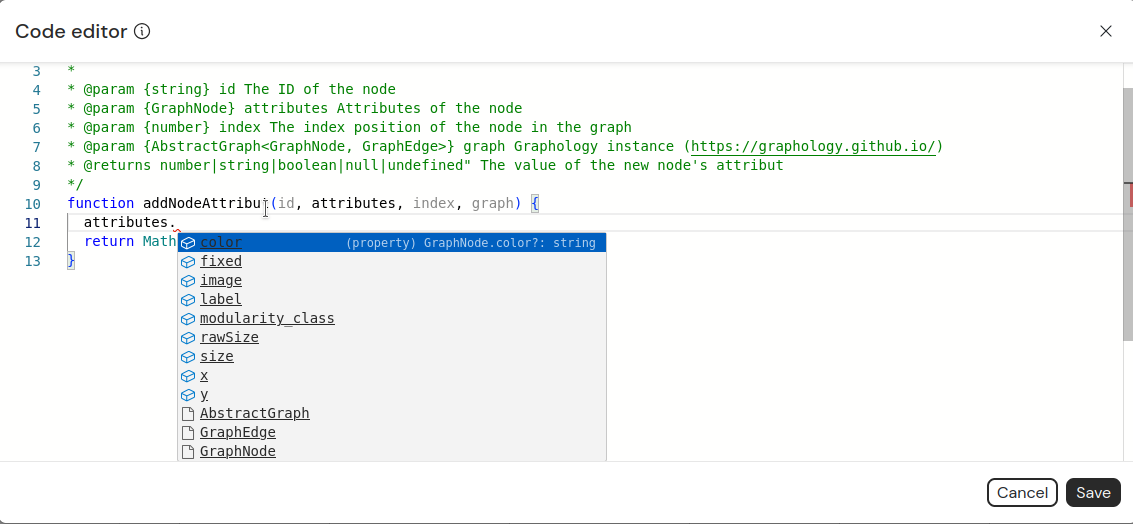
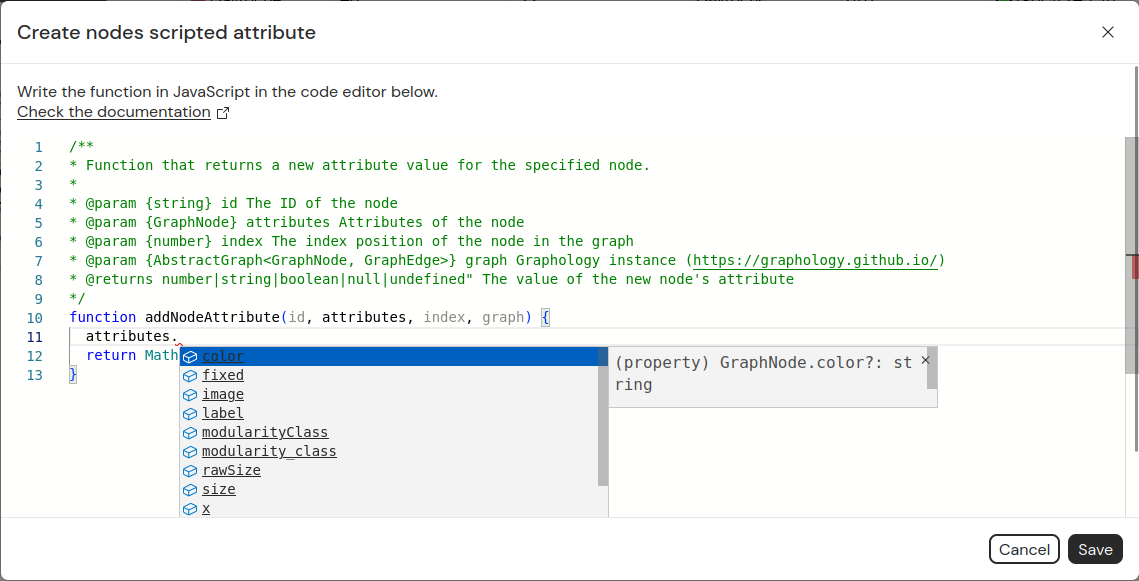
[gephi-lite] fix wording on custom-scripts page

diff --git a/gephi-lite/docs/user-manual/custom-scripts.md b/gephi-lite/docs/user-manual/custom-scripts.md
@@ -39,7 +39,7 @@ function filter(id, attributes, graph) {
 }
 ```
 
-- Filtering node that have a property 'age' below 18 and with a degree inferior to 10 :
+- Keep nodes that have a property 'age' below 18 and with a degree inferior to 10 :
 
 ```js
 function filter(id, attributes, graph) {
@@ -47,7 +47,7 @@ function filter(id, attributes, graph) {
 }
 ```
 
-- Filtering nodes on which the property 'job' is not defined
+- Keep nodes on which the property 'job' is defined
 
 ```js
 function filter(id, attributes, graph) {
@@ -110,9 +110,9 @@ On the **Data** page, choosing **Create nodes scripted attribute** in the **Data
  * @param {GraphNode} attributes Attributes of the node/edge
  * @param {number} index The index position of the node/edge in the graph
  * @param {AbstractGraph<GraphNode, GraphEdge>} graph Graphology instance (https://graphology.github.io/)
- * @returns number|string|boolean|null|undefined" The value of the new node/edge's attribut
+ * @returns number|string|boolean|null|undefined" The value of the new node/edge's attribute
  */
-function addAttribut(id, attributes, index, graph) {
+function addAttribute(id, attributes, index, graph) {
   //
   // Your code goes here
   //
@@ -122,10 +122,10 @@ function addAttribut(id, attributes, index, graph) {
 
 ### Examples
 
-- If you have an attribut named 'valid' which take 0 or 1 and you want to cast it into a boolean
+- If you have an attribute named 'valid' which take 0 or 1 and you want to cast it into a boolean
 
 ```js
-function addAttribut(id, attributes, index, graph) {
+function addAttribute(id, attributes, index, graph) {
   return attributes.valid === 1;
 }
 ```
@@ -133,7 +133,7 @@ function addAttribut(id, attributes, index, graph) {
 - If you have attributs named 'firstname' and 'lastname' and you want to concatenate them (usefull for graph label)
 
 ```js
-function addAttribut(id, attributes, index, graph) {
+function addAttribute(id, attributes, index, graph) {
   return (attributes.firstname || "") + " " + (attributes.lastname || ");
 }
 ```
